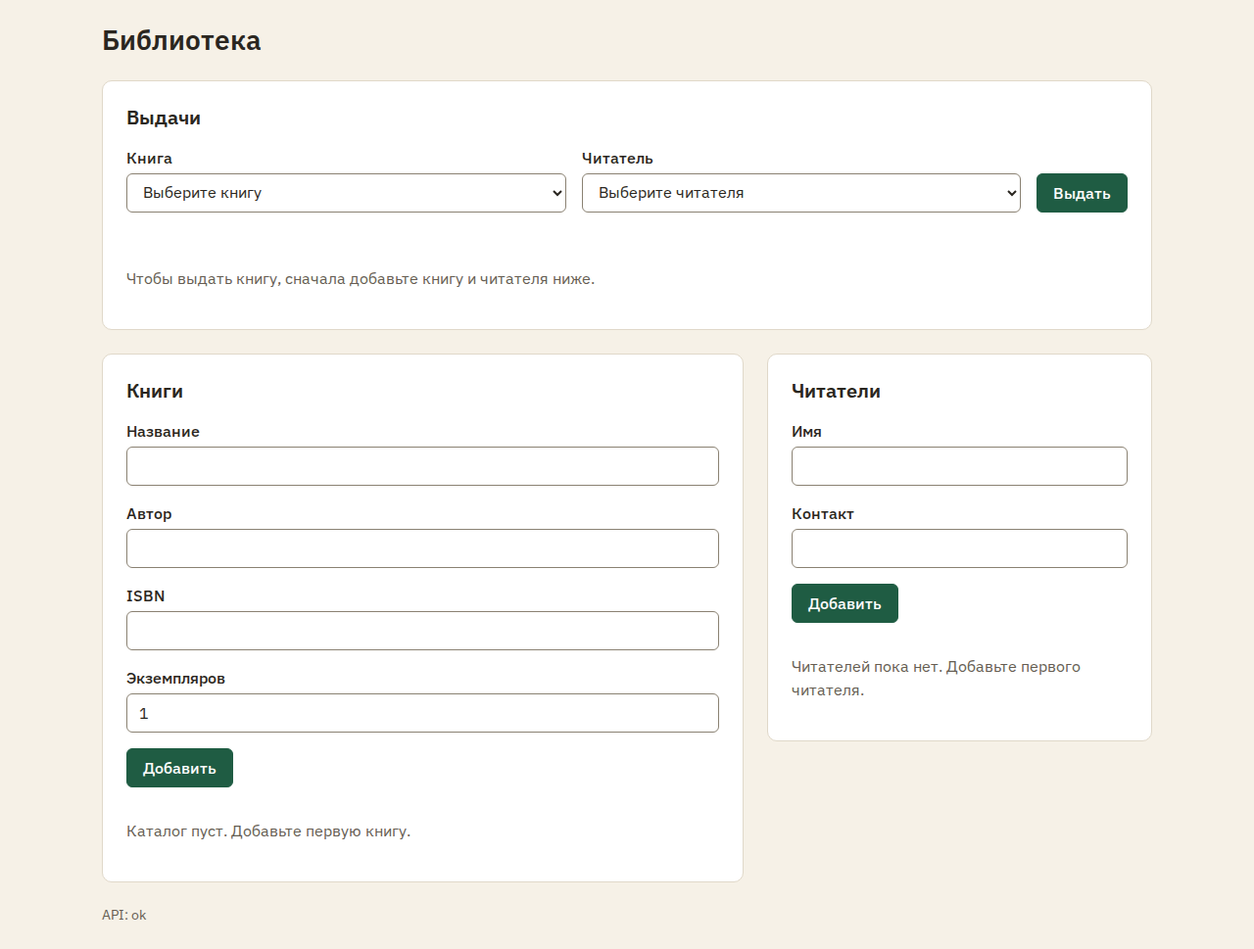
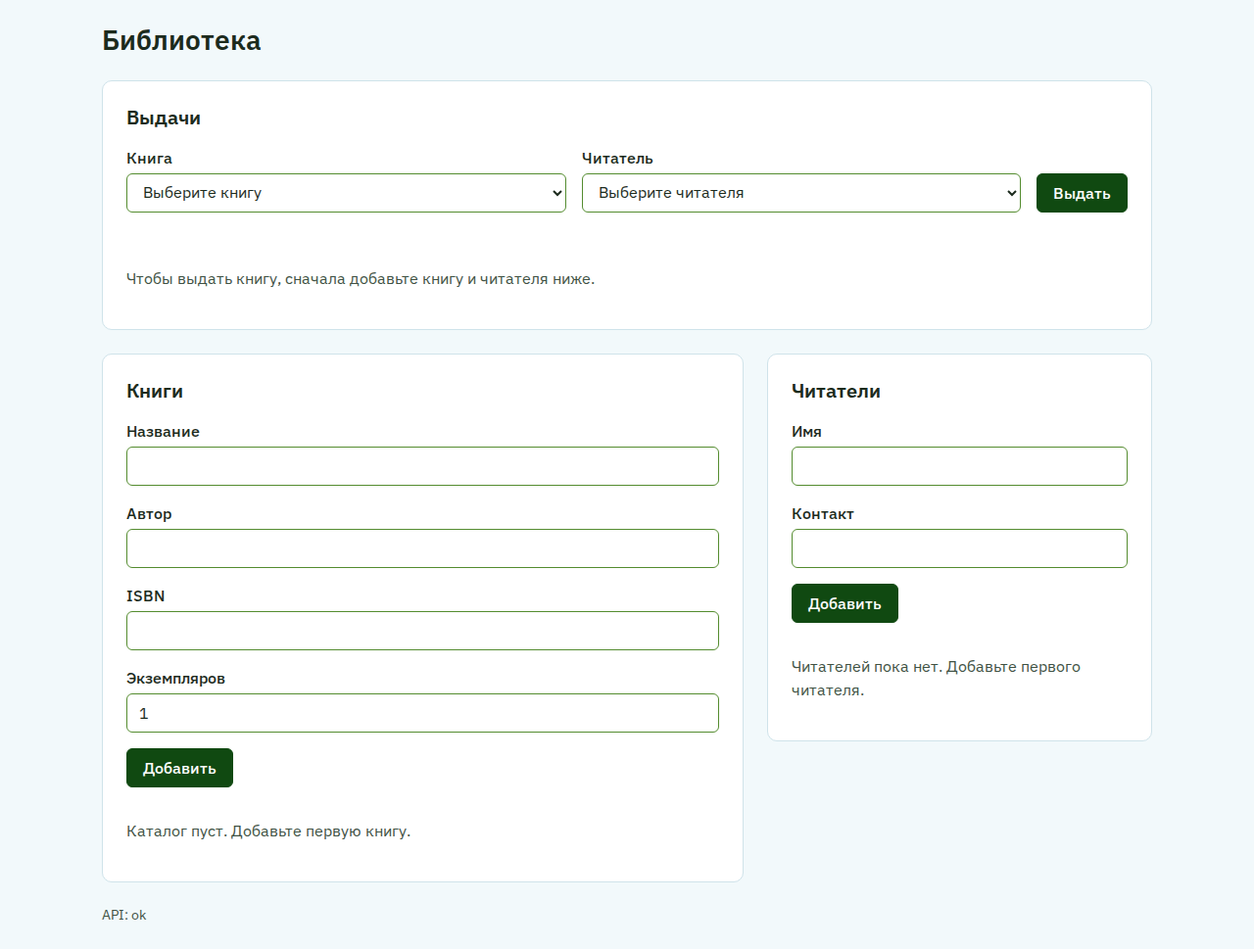
docs: палитра автора в DESIGN.md и макете
Палитра A8D5E2-F9A620-FFD449-548C2F-104911 заменила бумагу и зелёный, контраст пересчитан, снимки пересняты. Красного в палитре нет, поэтому проблему обозначает оранжевая гамма; D-06 и D-07 обновлены.

Changed region(s): [[0.625, 0.5882, 0.7188, 0.6811], [0.8125, 0.1858, 0.9062, 0.2477], [0.0938, 0.774, 0.1875, 0.8359]]

diff --git a/docs/mockups/main-screen.html b/docs/mockups/main-screen.html
@@ -18,33 +18,37 @@
     <style>
       :root {
         /* Цвет: поверхности */
-        --color-bg: #f6f1e7;
+        --color-bg: #f2f9fb;
         --color-surface: #ffffff;
-        --color-surface-muted: #f1ebdf;
+        --color-surface-muted: #a8d5e2;
 
         /* Цвет: текст */
-        --color-text: #2a2620;
-        --color-text-muted: #655d52;
+        --color-text: #1c2b1d;
+        --color-text-muted: #3f5244;
 
         /* Цвет: границы */
-        --color-border: #e0d8c9;
-        --color-border-control: #8a8172;
+        --color-border: #cfe3ea;
+        --color-border-control: #548c2f;
 
         /* Цвет: акцент */
-        --color-accent: #1f5c43;
-        --color-accent-hover: #184a36;
-        --color-accent-active: #123a2a;
-        --color-accent-tint: #e6f0ea;
+        --color-accent: #104911;
+        --color-accent-hover: #0c3a0d;
+        --color-accent-active: #082b09;
+        --color-accent-tint: #e9f2e2;
         --color-on-accent: #ffffff;
 
         /* Цвет: проблема */
-        --color-danger: #a32a1f;
-        --color-danger-bg: #fbebe7;
-        --color-danger-border: #e9b9af;
+        --color-danger: #7a4100;
+        --color-danger-bg: #fef0d9;
+        --color-danger-border: #f9a620;
+
+        /* Цвет: предупреждение */
+        --color-warn-bg: #ffd449;
+        --color-warn-border: #f9a620;
 
         /* Цвет: недоступно */
-        --color-disabled-bg: #ece6da;
-        --color-disabled-text: #6b6458;
+        --color-disabled-bg: #e4ebe6;
+        --color-disabled-text: #566a5a;
 
         /* Типографика */
         --font-sans:
@@ -277,9 +281,9 @@
       }
 
       .message--saved {
-        background: var(--color-surface-muted);
+        background: var(--color-warn-bg);
         color: var(--color-text);
-        border-color: var(--color-border-control);
+        border-color: var(--color-warn-border);
       }
 
       /* Таблицы */

diff --git a/DESIGN.md b/DESIGN.md
@@ -8,41 +8,45 @@
 
 ## Характер
 
-Тихий рабочий инструмент библиотекаря: бумага, белые карточки, зелёный акцент. Цвет не украшает, а сообщает: заметной
-становится только проблема. Плотность средняя, таблица читается как журнал выдач.
+Тихий рабочий инструмент библиотекаря: светло-голубой фон, белые карточки, тёмно-зелёный акцент, голубая шапка таблиц.
+Цвет не украшает, а сообщает: оранжевым становится только проблема. Плотность средняя, таблица читается как журнал выдач.
 
 ## Токены
 
 ```css
 :root {
   /* Цвет: поверхности */
-  --color-bg: #f6f1e7;
+  --color-bg: #f2f9fb;
   --color-surface: #ffffff;
-  --color-surface-muted: #f1ebdf;
+  --color-surface-muted: #a8d5e2;
 
   /* Цвет: текст */
-  --color-text: #2a2620;
-  --color-text-muted: #655d52;
+  --color-text: #1c2b1d;
+  --color-text-muted: #3f5244;
 
   /* Цвет: границы */
-  --color-border: #e0d8c9;
-  --color-border-control: #8a8172;
+  --color-border: #cfe3ea;
+  --color-border-control: #548c2f;
 
   /* Цвет: акцент */
-  --color-accent: #1f5c43;
-  --color-accent-hover: #184a36;
-  --color-accent-active: #123a2a;
-  --color-accent-tint: #e6f0ea;
+  --color-accent: #104911;
+  --color-accent-hover: #0c3a0d;
+  --color-accent-active: #082b09;
+  --color-accent-tint: #e9f2e2;
   --color-on-accent: #ffffff;
 
   /* Цвет: проблема */
-  --color-danger: #a32a1f;
-  --color-danger-bg: #fbebe7;
-  --color-danger-border: #e9b9af;
+  --color-danger: #7a4100;
+  --color-danger-bg: #fef0d9;
+  --color-danger-border: #f9a620;
+
+  /* Цвет: предупреждение */
+  --color-warn-bg: #ffd449;
+  --color-warn-border: #f9a620;
 
   /* Цвет: недоступно */
-  --color-disabled-bg: #ece6da;
-  --color-disabled-text: #6b6458;
+  --color-disabled-bg: #e4ebe6;
+  --color-disabled-text: #566a5a;
 
   /* Типографика */
   --font-sans: 'IBM Plex Sans', system-ui, -apple-system, 'Segoe UI', Roboto, Arial, sans-serif;
@@ -71,50 +75,56 @@
 
 ## Цвета и роли
 
-| Токен                    | Роль                                                         |
-| ------------------------ | ------------------------------------------------------------ |
-| `--color-bg`             | Фон страницы, подвал                                         |
-| `--color-surface`        | Карточки разделов, поля, вторичная кнопка                    |
-| `--color-surface-muted`  | Шапка таблицы, сообщение «Сохранено, но список не обновился» |
-| `--color-text`           | Основной текст                                               |
-| `--color-text-muted`     | Подсказки, шапка таблицы, подвал, строка «Возвращена»        |
-| `--color-border`         | Границы карточек и строк: декоративные                       |
-| `--color-border-control` | Граница полей: должна быть различима                         |
-| `--color-accent`         | Главная кнопка, текст вторичной кнопки, фокус                |
-| `--color-accent-tint`    | Подтверждение, наведение на вторичную кнопку                 |
-| `--color-danger`         | Текст ошибки и статуса «Просрочена»                          |
-| `--color-danger-bg`      | Сообщение об ошибке, просроченная строка                     |
+| Токен                    | Роль                                                  |
+| ------------------------ | ----------------------------------------------------- |
+| `--color-bg`             | Фон страницы, подвал                                  |
+| `--color-surface`        | Карточки разделов, поля, вторичная кнопка             |
+| `--color-surface-muted`  | Шапка таблицы                                         |
+| `--color-text`           | Основной текст                                        |
+| `--color-text-muted`     | Подсказки, шапка таблицы, подвал, строка «Возвращена» |
+| `--color-border`         | Границы карточек и строк: декоративные                |
+| `--color-border-control` | Граница полей: должна быть различима                  |
+| `--color-accent`         | Главная кнопка, текст вторичной кнопки, фокус         |
+| `--color-accent-tint`    | Подтверждение, наведение на вторичную кнопку          |
+| `--color-danger`         | Текст ошибки и статуса «Просрочена»                   |
+| `--color-danger-bg`      | Сообщение об ошибке, просроченная строка              |
+| `--color-danger-border`  | Граница сообщения об ошибке                           |
+| `--color-warn-bg`        | Сообщение «Сохранено, но список не обновился»         |
 
 Зелёный не означает «всё хорошо» в таблице: «На руках» — обычный текст (D-07). Подтверждение действия использует акцент,
 потому что это ответ на действие, а не статус записи. Тёмной темы нет.
+
+Красного в палитре нет: проблему обозначает оранжевая гамма, а смысл всегда несёт текст. Оранжевый `#F9A620` на белом даёт
+только 2.00, поэтому как текст не используется: текст ошибки — его тёмный оттенок `#7A4100`. `#548C2F` под белым текстом
+даёт 4.06, ниже порога, поэтому главная кнопка — `#104911`, а `#548C2F` остаётся границей поля.
 
 ## Контраст
 
 Рассчитан по формуле WCAG 2.x. Порог: 4.5:1 для текста (NFR-2), 3:1 для границ полей и фокуса.
 
-| Текст или элемент              | Фон                     | Контраст | Порог | Где                              |
-| ------------------------------ | ----------------------- | -------- | ----- | -------------------------------- |
-| `--color-text` `#2A2620`       | `--color-surface`       | 15.04    | 4.5   | Основной текст                   |
-| `--color-text`                 | `--color-bg`            | 13.36    | 4.5   | Заголовок страницы               |
-| `--color-text`                 | `--color-danger-bg`     | 12.99    | 4.5   | Просроченная строка              |
-| `--color-text`                 | `--color-surface-muted` | 12.67    | 4.5   | Сообщение «Сохранено без списка» |
-| `--color-text-muted` `#655D52` | `--color-surface`       | 6.48     | 4.5   | Подсказки, «Возвращена»          |
-| `--color-text-muted`           | `--color-bg`            | 5.76     | 4.5   | Подвал                           |
-| `--color-text-muted`           | `--color-surface-muted` | 5.46     | 4.5   | Шапка таблицы                    |
-| `--color-on-accent` `#FFFFFF`  | `--color-accent`        | 7.86     | 4.5   | Главная кнопка                   |
-| `--color-on-accent`            | `--color-accent-hover`  | 10.14    | 4.5   | Главная кнопка, наведение        |
-| `--color-on-accent`            | `--color-accent-active` | 12.62    | 4.5   | Главная кнопка, нажатие          |
-| `--color-accent` `#1F5C43`     | `--color-surface`       | 7.86     | 4.5   | Вторичная кнопка                 |
-| `--color-accent`               | `--color-accent-tint`   | 6.75     | 4.5   | Подтверждение, наведение         |
-| `--color-accent-hover`         | `--color-accent-tint`   | 8.70     | 4.5   | Вторичная кнопка, нажатие        |
-| `--color-danger` `#A32A1F`     | `--color-surface`       | 7.22     | 4.5   | Граница поля с ошибкой           |
-| `--color-danger`               | `--color-danger-bg`     | 6.24     | 4.5   | Ошибка, статус «Просрочена»      |
-| `--color-disabled-text`        | `--color-disabled-bg`   | 4.71     | 4.5   | Заблокированная кнопка           |
-| `--color-border-control`       | `--color-surface`       | 3.84     | 3     | Граница поля                     |
-| Фокус `--color-accent`         | `--color-bg`            | 6.99     | 3     | Фокус на фоне страницы           |
-| Фокус `--color-accent`         | `--color-danger-bg`     | 6.79     | 3     | Фокус в просроченной строке      |
+| Текст или элемент                  | Фон                     | Контраст | Порог | Где                              |
+| ---------------------------------- | ----------------------- | -------- | ----- | -------------------------------- |
+| `--color-text` `#1C2B1D`           | `--color-surface`       | 14.87    | 4.5   | Основной текст                   |
+| `--color-text` `#1C2B1D`           | `--color-bg`            | 13.96    | 4.5   | Заголовок страницы               |
+| `--color-text` `#1C2B1D`           | `--color-danger-bg`     | 13.22    | 4.5   | Просроченная строка              |
+| `--color-text` `#1C2B1D`           | `--color-warn-bg`       | 10.45    | 4.5   | Сообщение «Сохранено без списка» |
+| `--color-text-muted` `#3F5244`     | `--color-surface`       | 8.39     | 4.5   | Подсказки, «Возвращена»          |
+| `--color-text-muted` `#3F5244`     | `--color-bg`            | 7.88     | 4.5   | Подвал                           |
+| `--color-text-muted` `#3F5244`     | `--color-surface-muted` | 5.31     | 4.5   | Шапка таблицы                    |
+| `--color-on-accent` `#FFFFFF`      | `--color-accent`        | 10.59    | 4.5   | Главная кнопка                   |
+| `--color-on-accent` `#FFFFFF`      | `--color-accent-hover`  | 12.91    | 4.5   | Главная кнопка, наведение        |
+| `--color-on-accent` `#FFFFFF`      | `--color-accent-active` | 15.44    | 4.5   | Главная кнопка, нажатие          |
+| `--color-accent` `#104911`         | `--color-surface`       | 10.59    | 4.5   | Вторичная кнопка                 |
+| `--color-accent` `#104911`         | `--color-accent-tint`   | 9.21     | 4.5   | Подтверждение, наведение         |
+| `--color-accent-hover` `#0C3A0D`   | `--color-accent-tint`   | 11.23    | 4.5   | Вторичная кнопка, нажатие        |
+| `--color-danger` `#7A4100`         | `--color-surface`       | 8.13     | 3     | Граница поля с ошибкой           |
+| `--color-danger` `#7A4100`         | `--color-danger-bg`     | 7.23     | 4.5   | Ошибка, статус «Просрочена»      |
+| `--color-disabled-text` `#566A5A`  | `--color-disabled-bg`   | 4.81     | 4.5   | Заблокированная кнопка           |
+| `--color-border-control` `#548C2F` | `--color-surface`       | 4.06     | 3     | Граница поля                     |
+| `--color-accent` `#104911`         | `--color-bg`            | 9.94     | 3     | Фокус на фоне страницы           |
+| `--color-accent` `#104911`         | `--color-danger-bg`     | 9.42     | 3     | Фокус в просроченной строке      |
 
-Пара `--color-border` на `--color-surface` даёт 1.42 намеренно: эта граница только разделяет блоки и не несёт смысла.
+Пара `--color-border` на `--color-surface` даёт 1.33 намеренно: эта граница только разделяет блоки и не несёт смысла.
 
 ## Типографика
 
@@ -158,7 +168,7 @@
 ## Форма и глубина
 
 Скругление: `--radius-control` у полей, кнопок и сообщений, `--radius-card` у карточек. **Теней нет:** карточки отделяются
-от бумаги цветом и границей 1 px `--color-border`. Анимаций нет: итог появляется сразу, прокрутка мгновенная.
+от фона цветом и границей 1 px `--color-border`. Анимаций нет: итог появляется сразу, прокрутка мгновенная.
 
 ## Компоненты и состояния
 
@@ -176,11 +186,11 @@
 
 **Сообщения.** Полоса на всю ширину блока, поле `--space-3`, основной размер текста.
 
-| Вид                  | `role`   | Фон             | Текст    | Граница 1 px     |
-| -------------------- | -------- | --------------- | -------- | ---------------- |
-| Ошибка               | `alert`  | `danger-bg`     | `danger` | `danger-border`  |
-| Подтверждение        | `status` | `accent-tint`   | `accent` | `accent`         |
-| Сохранено без списка | `status` | `surface-muted` | `text`   | `border-control` |
+| Вид                  | `role`   | Фон           | Текст    | Граница 1 px    |
+| -------------------- | -------- | ------------- | -------- | --------------- |
+| Ошибка               | `alert`  | `danger-bg`   | `danger` | `danger-border` |
+| Подтверждение        | `status` | `accent-tint` | `accent` | `accent`        |
+| Сохранено без списка | `status` | `warn-bg`     | `text`   | `warn-border`   |
 
 **Таблицы.** `--row-height` (D-09) — минимальная высота строки: длинный текст переносится, и строка растёт. Кнопка в ячейке
 блочная, иначе базовая линия увеличивает строку до 48,5 px. Ячейка `--space-3` по горизонтали, текст по левому краю. Шапка:
@@ -215,13 +225,13 @@
 
 | Источник                                                                                  | Что берём                                             | Что не берём                                                  |
 | ----------------------------------------------------------------------------------------- | ----------------------------------------------------- | ------------------------------------------------------------- |
-| [Refero: Notion](https://styles.refero.design/style/2bf4c61f-de10-4614-ba1b-20c0453bd2a9) | Тёплый фон, границы в 1 px вместо теней               | Синий акцент, разноцветные карточки, упругие анимации         |
+| [Refero: Notion](https://styles.refero.design/style/2bf4c61f-de10-4614-ba1b-20c0453bd2a9) | Границы в 1 px вместо теней                           | Синий акцент, разноцветные карточки, упругие анимации         |
 | [Refero: Wise](https://styles.refero.design/style/367c0c6e-73a7-441c-a8ff-91d139ac60dc)   | Глубокий зелёный как основной тёмный цвет             | Лаймовый акцент, крупные заголовки, кнопки-пилюли             |
 | [Refero: Steep](https://styles.refero.design/style/75fdb89f-ca64-41b3-af36-7a78bd09448e)  | Цвет как редкий функциональный акцент                 | Шрифт с засечками, большие скругления                         |
 | Libib, Koha (`docs/research/competitors.md`)                                              | Просроченная строка целиком, ошибка рядом с действием | Бирюзовый цвет Libib                                          |
 | [21st.dev](https://21st.dev/community/components/s/table): Table, Empty State, Alert      | Просмотрены только названия каталога                  | Код: компоненты на React и Tailwind дали бы новые зависимости |
 
-**Палитра** собрана вручную под D-06 и D-07 и проверена расчётом контраста. Посмотреть её в Coolors:
-[ссылка на палитру](https://coolors.co/f6f1e7-1f5c43-2a2620-a32a1f-ffffff). Как генератор Coolors не использовался.
-Встроенную проверку контраста Coolors считать не удалось: страница в автоматическом браузере осталась пустой.
+**Палитра** выбрана автором: [Coolors](https://coolors.co/a8d5e2-f9a620-ffd449-548c2f-104911), значения прочитаны из адреса.
+Из неё прямо взяты `#A8D5E2`, `#F9A620`, `#FFD449`, `#548C2F`, `#104911`. Остальные цвета — светлые и тёмные оттенки этих пяти
+и почти чёрный текст, подобраны вручную; контраст рассчитан по формуле WCAG, встроенная проверка Coolors не использовалась.
 Firecrawl и view-page-source не использовались: готовых описаний Refero хватило.

diff --git a/.planning/phases/06-produktovaya-analitika-i-vizualnaya-kontseptsiya/06-CONTEXT.md b/.planning/phases/06-produktovaya-analitika-i-vizualnaya-kontseptsiya/06-CONTEXT.md
@@ -23,8 +23,8 @@
 - **D-05:** Итог «Вернуть» показывается над таблицей выдач, а не в строке: после возврата строка уходит вниз (FR-4). Если сообщение вне экрана, страница прокручивается к нему.
 
 ### Настроение и цвет
-- **D-06:** Тёплый библиотечный стиль: фон цвета бумаги, белые карточки, глубокий зелёный акцент, тёплый почти чёрный текст. Точные значения и расчёт контраста — в `DESIGN.md`.
-- **D-07:** Цвет статуса только у проблем: «Просрочена» — бледно-красная строка и красный текст; «На руках» — обычный текст; «Возвращена» — серый. Текст статуса есть всегда (NFR-2).
+- **D-06:** Палитра автора `A8D5E2-F9A620-FFD449-548C2F-104911` (заменила бумагу и зелёный, 2026-10-31): светло-голубой фон, белые карточки, тёмно-зелёный акцент, голубая шапка таблиц, почти чёрный текст. Точные значения и расчёт контраста — в `DESIGN.md`.
+- **D-07:** Цвет статуса только у проблем: «Просрочена» — бледно-оранжевая строка и тёмно-оранжевый текст (красного в палитре нет); «На руках» — обычный текст; «Возвращена» — серый. Текст статуса есть всегда (NFR-2).
 
 ### Шрифт и плотность
 - **D-08:** IBM Plex Sans из Google Fonts, подключается ссылкой, без npm-пакета; проверить наличие кириллицы при подключении. Обязателен запасной системный шрифт: без интернета интерфейс должен работать.
@@ -68,7 +68,7 @@
 <specifics>
 ## Specific Ideas
 
-Главный UX-референс — Libib, но цвет не копируем: зелёный и бумага вместо бирюзового. Причина отказа рядом с действием — из Koha.
+Главный UX-референс — Libib, но цвет не копируем: палитра автора вместо бирюзового. Причина отказа рядом с действием — из Koha.
 
 </specifics>
 

diff --git a/docs/memory.md b/docs/memory.md
@@ -3,6 +3,16 @@
 Журнал сессий и шагов: что сделано, какие решения приняты, что дальше, на чём споткнулись.
 Новые записи — сверху. Формат записи: **Сделано / Решение / Дальше / Ловушки**.
 
+## 2026-10-31 — ДЗ-3: новая палитра (ветка `feat/design-md`)
+
+**Сделано.** В `DESIGN.md` и `docs/mockups/main-screen.html` палитра автора `A8D5E2-F9A620-FFD449-548C2F-104911`, снимки `hw3-mockup-*.png` пересняты, D-06 и D-07 обновлены. `src/client` не менялся.
+
+**Решение.** Вариант на теме PrimeFaces Saga автор отклонил. Красного в палитре нет, проблему обозначает оранжевая гамма. Белый текст на `#548C2F` даёт 4.06, поэтому главная кнопка `#104911`, а `#548C2F` — граница поля. `#F9A620` на белом даёт 2.00, поэтому текст ошибки `#7A4100`.
+
+**Дальше.** Шаг 8: `/gsd-plan-phase 6 --skip-ui --skip-research`, перед ним решения шагов 5–7 и таблицу читателей внести в CONTEXT; шаг 9: README и PR.
+
+**Ловушки.** Файлы отклонённого варианта не в git и в коммит не входят: `docs/design-variants/`, `docs/mockups/main-screen-prime.html`.
+
 ## 2026-10-31 — ДЗ-3, шаг 7: статичный макет (ветка `feat/design-md`)
 
 **Сделано.** `docs/mockups/main-screen.html`: 8 состояний через адрес страницы (`#work`, `#waiting`, `#refusal`, `#issued`, `#saved`, `#returned`, `#first`, `#failed`), снимки `docs/screenshots/hw3-mockup-*.png`. `src/client` не менялся.

diff --git a/.planning/STATE.md b/.planning/STATE.md
@@ -4,11 +4,11 @@ milestone: v1.0
 current_phase: 5
 current_phase_name: Архитектура, README и сдача
 status: complete
-stopped_at: context exhaustion at 78% (2026-10-31)
-last_updated: "2026-10-31T09:01:00.596Z"
+stopped_at: context exhaustion at 75% (2026-10-31)
+last_updated: "2026-10-31T09:19:07.960Z"
 last_activity: 2026-10-31
 last_activity_desc: PR
-state_head: 2ca2bd036b6b5e8d6f9054eb1a9505d6e9fea66b
+state_head: d588c68f666fd864c0088bd6cd03705031e8a60a
 progress:
   total_phases: 6
   completed_phases: 5
@@ -30,7 +30,7 @@ See: .planning/PROJECT.md (updated 2026-10-22)
 
 Phase: 6 — Продуктовая аналитика и визуальная концепция
 Plan: TBD
-Status: In progress — макет готов, дальше `/gsd-plan-phase 6`
+Status: In progress — палитра автора применена, дальше `/gsd-plan-phase 6`
 Last activity: 2026-10-31 — шаг 7: статичный макет и снимки
 
 Progress: [██████████] 100%
@@ -113,7 +113,7 @@ Items acknowledged and deferred at milestone close, most recent first:
 
 ## Session Continuity
 
-Last session: 2026-10-31T09:01:00.540Z
-Stopped at: context exhaustion at 78% (2026-10-31)
+Last session: 2026-10-31T09:19:07.897Z
+Stopped at: context exhaustion at 75% (2026-10-31)
 Resume file: None
-Next: ДЗ-3, ветка `feat/design-md`: шаг 7 готов, дальше шаг 8 — `/gsd-plan-phase 6 --skip-ui --skip-research`; план в `docs/memory.md`
+Next: ДЗ-3, ветка `feat/design-md`: дальше шаг 8 — `/gsd-plan-phase 6 --skip-ui --skip-research`; план в `docs/memory.md`
